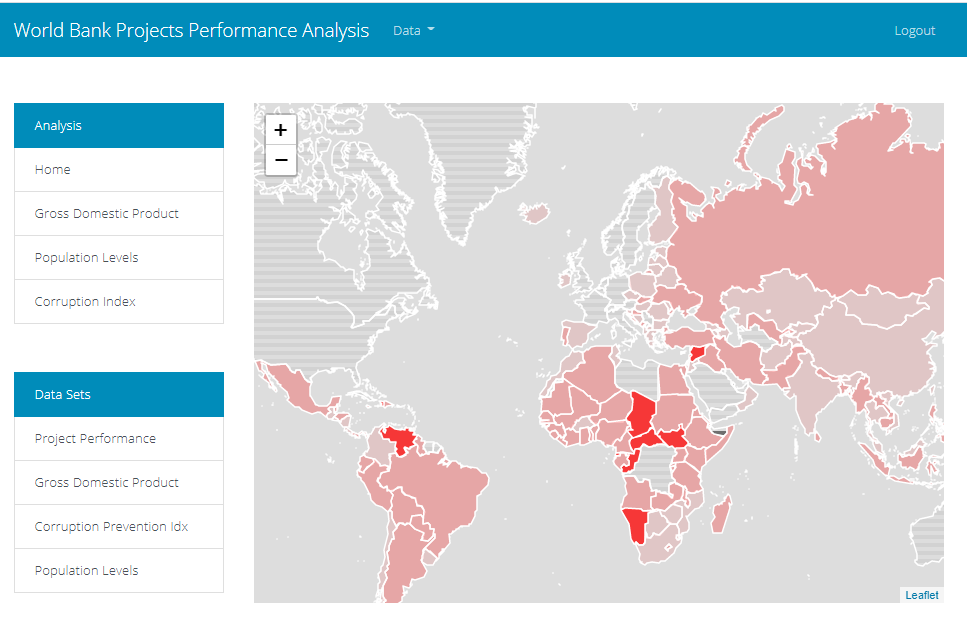
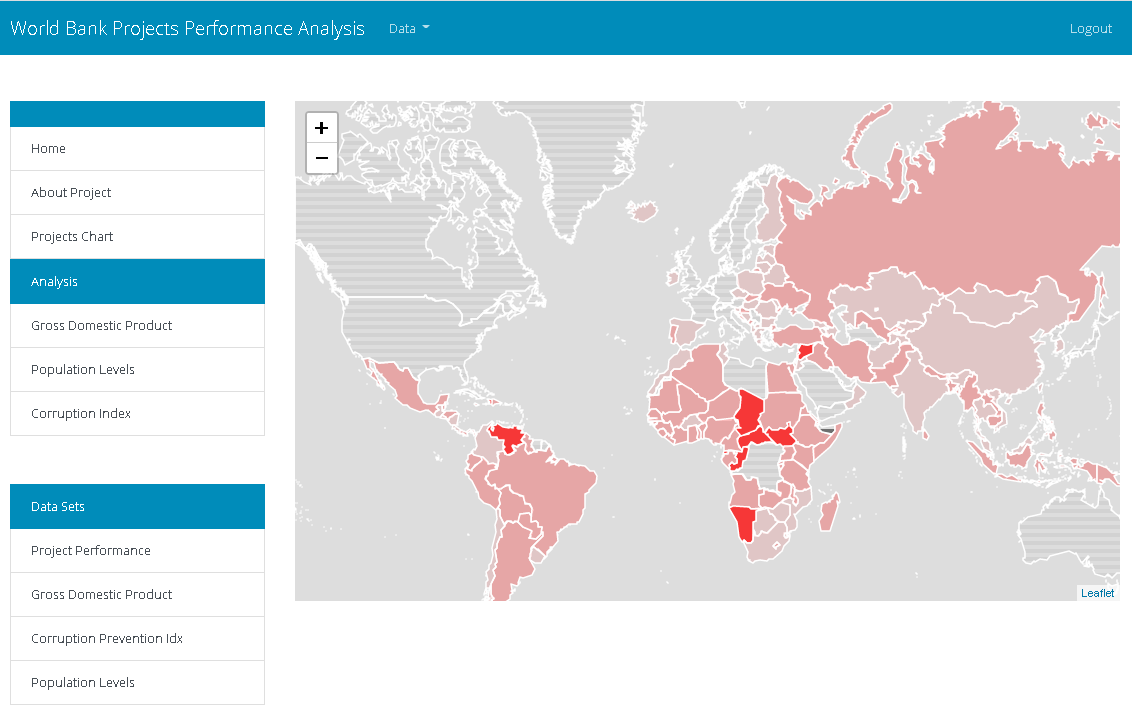
adding new images to the readme file

diff --git a/README.md b/README.md
@@ -78,6 +78,13 @@ On the left side of the page, the navigational links give access to the visualiz
 
 * ```Home```  : Will take you to the home page (the main page with the map visualization).
 
+* ```About Project```  : Will show information about the project, team members.
+
+* ```Projects Chart```  : Will take you to a plotlydash page, showing charts with World bak projects information. 
+- 1st Chart dispolying numbers of charts by country and the IEG_Outcome rate. 
+- 2nd Chart show the numbers of porject of the country selected. 
+To return to home page you have to press the option home and then refresh the page.
+
 * ```Gross Domestic Product```  : Contains a visualization comparing the projects' success rate vs. the gross domestic product of the countries.
 
 * ```Population Levels``` : Contains a visualization comparing the projects' success rates vs. the average population levels for the countries. 
@@ -86,7 +93,7 @@ On the left side of the page, the navigational links give access to the visualiz
 
 The Data Sets Menu contains these links:
 
-* ```Project Performance``` : The HTML table with the project evaluation outcome data from the IEG.
+* ```Project Performance``` : The HTML table with the project evaluation outcome data from the IEG. The information of this table is scraped from the dataset web page. 
 
 * ``` Gross Domestic Product``` : HTML table with the gross domestic product figures for all countries. 
 
